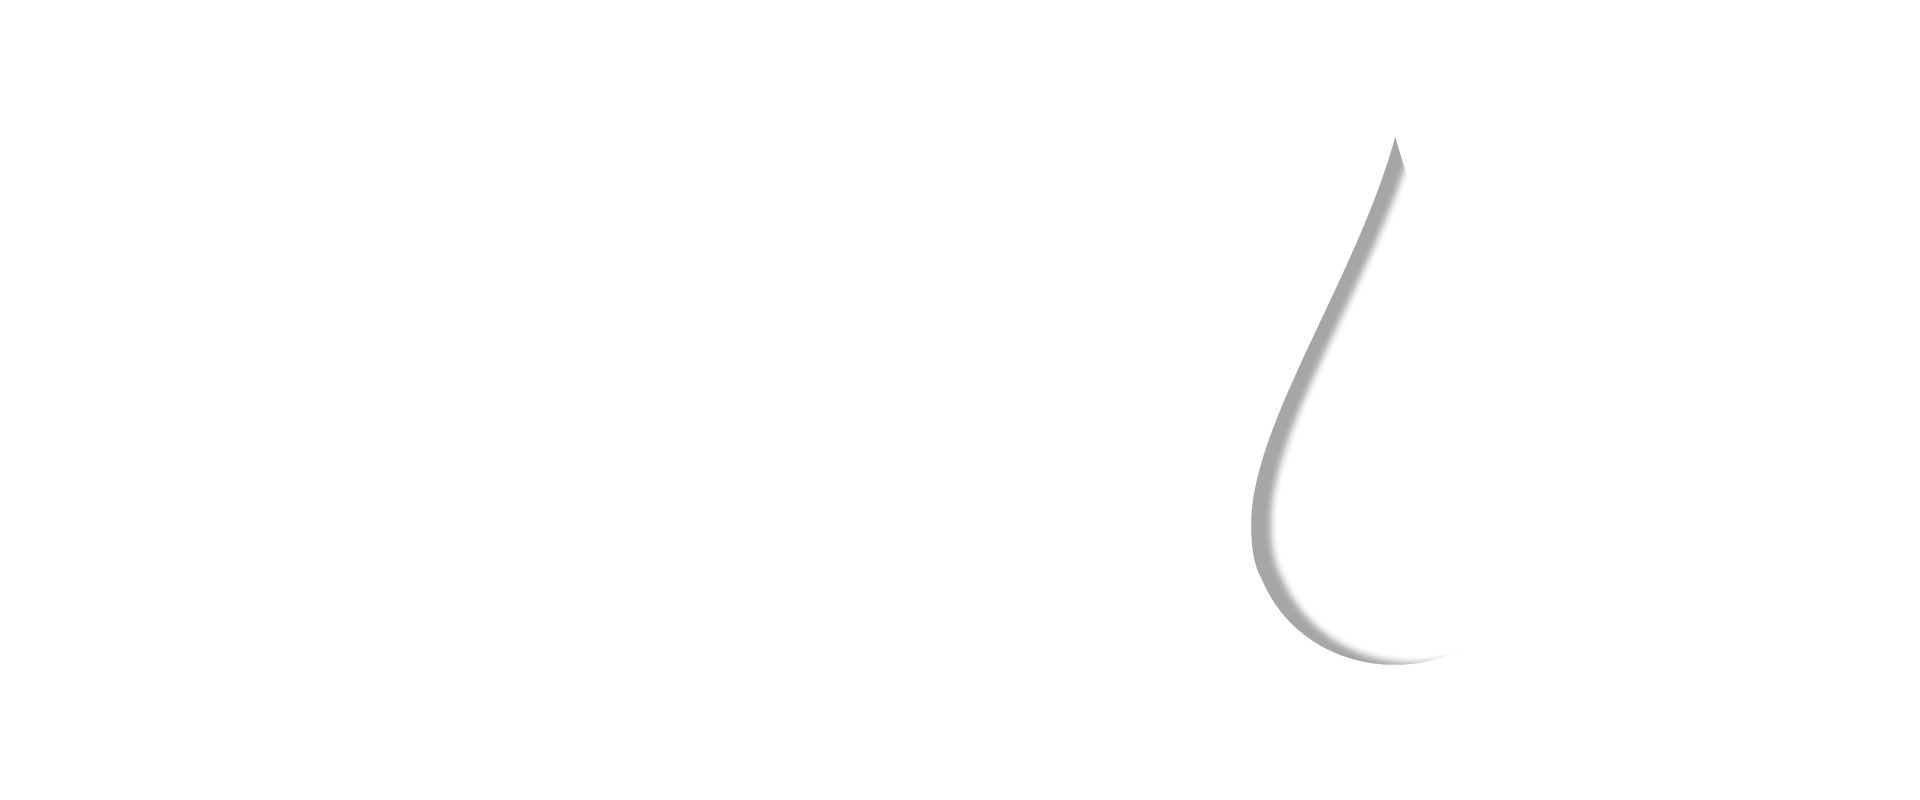
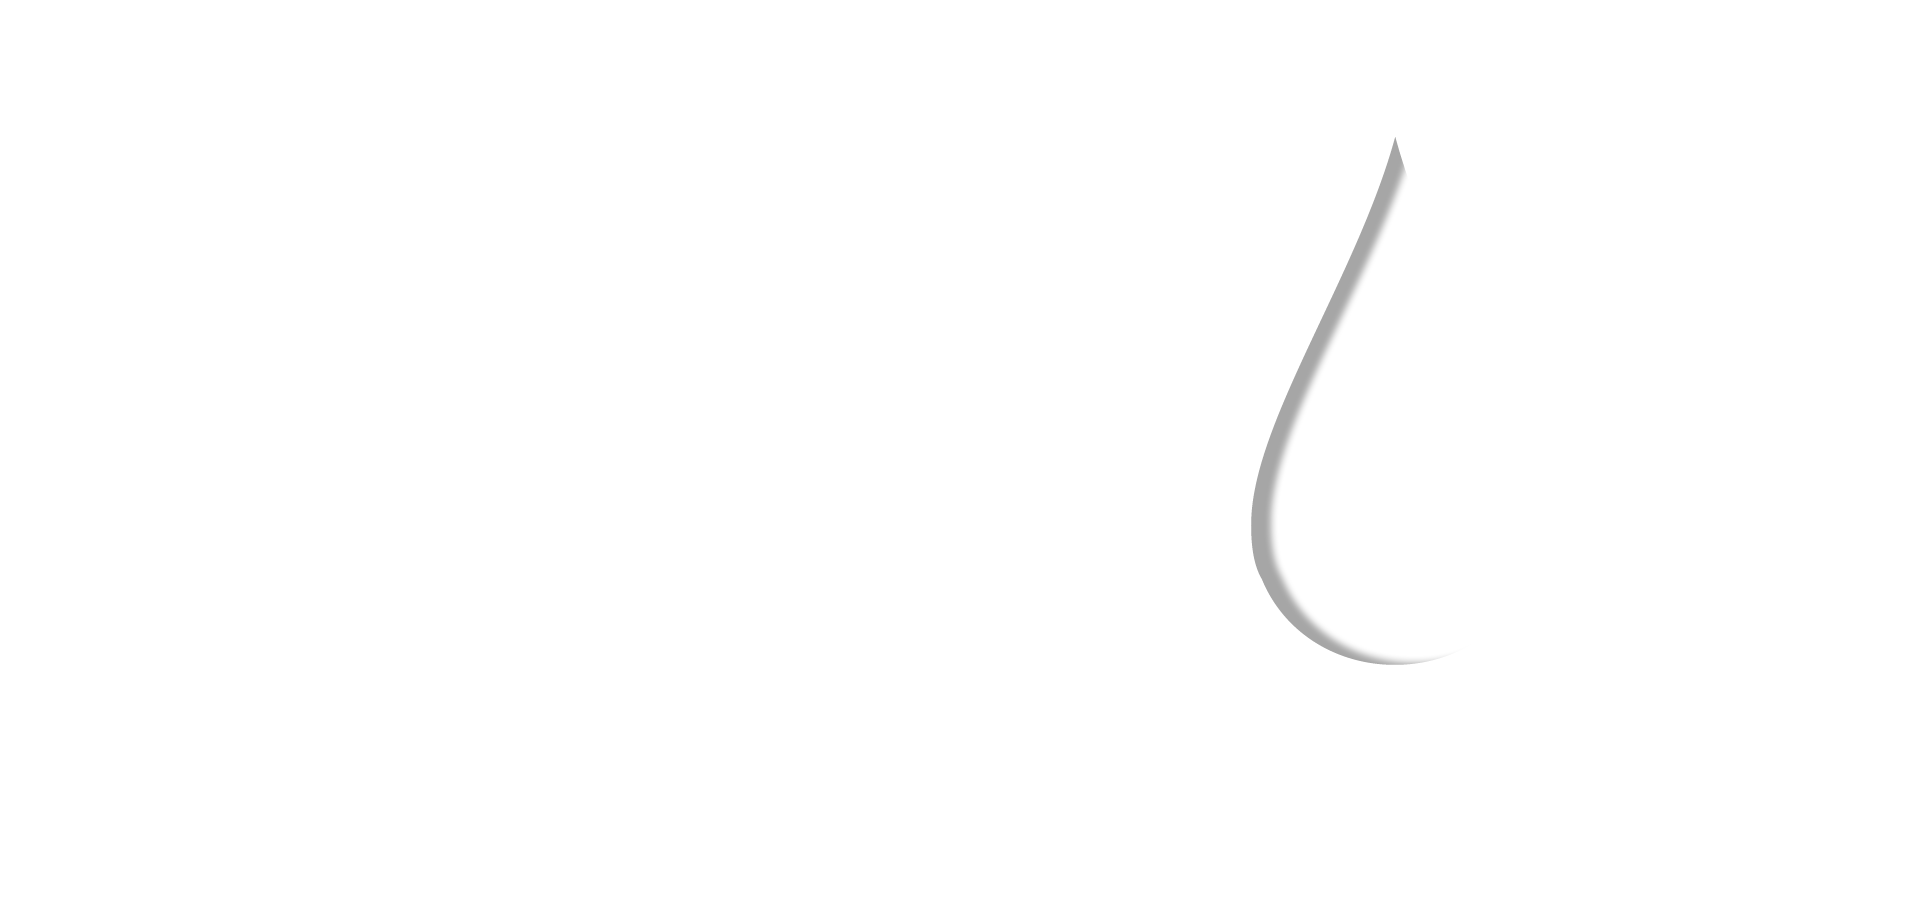
이미지 변경

Changed region(s): [[0.625, 0.1562, 0.75, 0.5938], [0.625, 0.625, 0.75, 0.8438]]

diff --git a/c/css/casetify.css b/c/css/casetify.css
@@ -465,12 +465,17 @@ svg {
     width: 35%;
     position: absolute;
     top: 0;
-    right: 0;
+    right: 100px;
     width: 210px;
     height: 210px;
     background: url(/dollop-syrup/c/images/droptozerocrop.png) 50% 50% no-repeat;
+    animation:spin 4s linear infinite;
   }
-
+  @keyframes spin { 
+    100% { 
+        transform:rotate(360deg); 
+    } 
+}
 .sec05 {
     content: "";
     width: 100%;

diff --git a/c/html/casetify.html b/c/html/casetify.html
@@ -108,7 +108,7 @@
                 </defs>
                 <text font-size="10">
                   <textPath xlink:href="#pathcircle">
-                    Our Mission Our Mission Our Mission Our Mission
+                    &nbsp;&nbsp;Our Mission Our Mission Our Mission Our Mission
                   </textPath>
                 </text>
               </svg>
